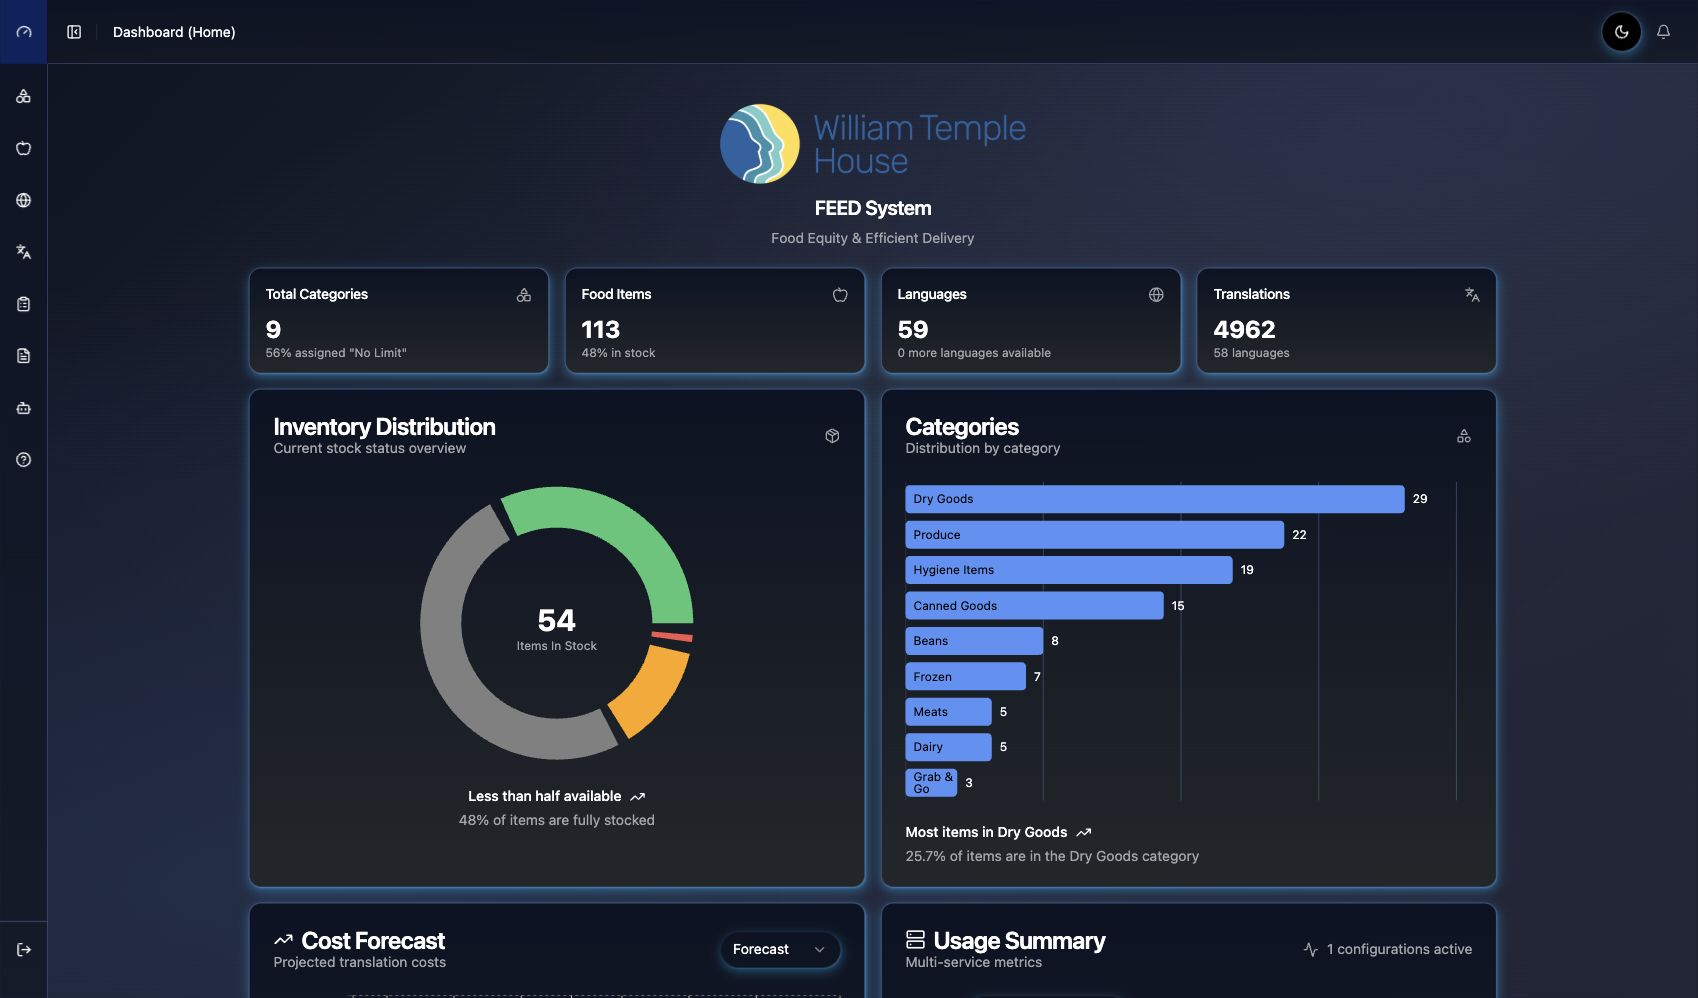
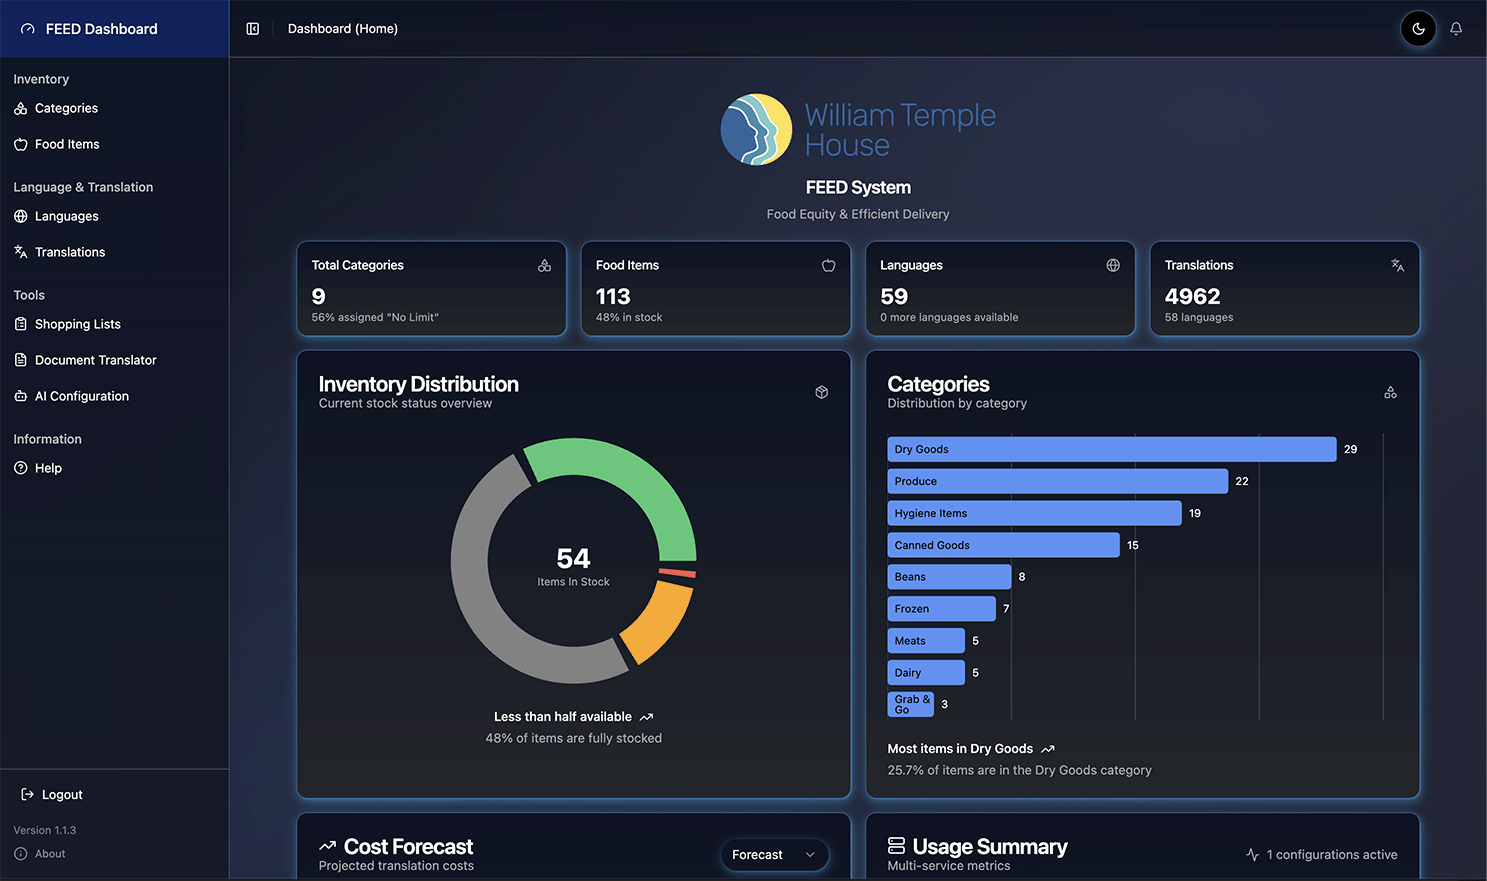
Revised: Help guides copy and images.

diff --git a/docs/user-guides/09-support-troubleshooting.md b/docs/user-guides/09-support-troubleshooting.md
@@ -10,11 +10,13 @@ Use Help search when you are not sure which guide has the answer.
 
 Check your email address first.
 
-If the code or magic link does not arrive:
+If the code does not arrive:
 
 1. Check spam or junk mail.
 2. Wait a minute and try again.
 3. Ask a staff lead or administrator for help.
+
+**NOTE:** Always sign in with One-Time Passcode. William Temple House's IT Administrators do not allow Magic Links. This is a known issue. 
 
 ## A Food Item Looks Wrong
 
@@ -38,7 +40,7 @@ If the language is not available, check the Languages page first.
 
 Try again once. Some failures are temporary.
 
-If it fails again, note the document name and language, then ask an administrator to review it.
+If it fails again, note the document name and language, then **[contact the developer](https://github.com/MattGeiger/williamtemple-feed#contact)** for help.
 
 ## A Shopping List PDF Looks Wrong
 
@@ -53,11 +55,29 @@ Look for:
 
 Export again after saving changes.
 
-## When To Ask For Help
+## Found a bug?
 
-Ask an administrator when:
+Send a message to the developer: **[https://github.com/MattGeiger/williamtemple-feed](https://github.com/MattGeiger/williamtemple-feed#contact)**
 
-- You cannot sign in.
-- Translation failures repeat.
-- AI Configuration needs a key or cost-limit change.
-- A list prints incorrectly after the template has been checked.
+Include details:
+
+- When did it happen?
+- What were you trying to do when it happened?
+- What's working and what's not working?
+- Have a screenshot?
+- Can the bug be reproduced? List the steps.
+
+Have ideas for making FEED better? Share your thoughts! The project is open source.
+
+        <div className="flex flex-col gap-2 sm:flex-row sm:justify-center">
+          <Button asChild variant="secondary">
+            <a
+              href="https://github.com/MattGeiger/williamtemple-feed"
+              target="_blank"
+              rel="noopener noreferrer"
+            >
+              <Github className="h-4 w-4" aria-hidden="true" />
+              Source Code on GitHub
+            </a>
+          </Button>
+        </div>

diff --git a/AGENTS.md b/AGENTS.md
@@ -155,7 +155,7 @@ The shopping list generator is being developed incrementally.
 - Phase 4: shopping list template generation completed and hardened. Users can apply saved templates and inventory-derived sections to the canvas, then generate PDFs from current data.
 - Phase 5: in progress. The Guided/Freeform layout-mode toggle, 9pt grid overlay (chosen because Letter paper, page center, and split-body lanes all land on grid lines under 9), 18pt section-table row rhythm, snap-to-grid for drag/drop/add/duplicate/insert, header/footer page-anatomy guides, explicit Header/Body/Footer component regions, split-body controls, Guided collision placement, table flow metadata, print presets, and planner-backed Body sequencing are landed. Flowing body section tables now split by whole rows across split lanes/pages and repeat headers; non-flowing Body components now receive single planned placements in the same sequence. Canvas preview and Chromium PDF export render the same plan. Remaining Phase 5 scope: overflow-control UX, alignment/distribution controls, additional split-page rules, multi-page editing affordances, and RITE-based UX refinement.
 
-Important product principle: the goal is not merely to dump inventory data into PDFs. The goal is to empower pantry staff to build reusable templates and control how inventory content is represented while keeping data-derived values accurate.
+Important product principle: the goal is not merely to dump inventory data into PDFs. The goal is to empower Social Services staff to build reusable templates and control how inventory content is represented while keeping data-derived values accurate.
 
 Inventory limits are food equity controls. They regulate per-client burn rates for high-demand items. Inventory-backed shopping list tables should derive limit values from the inventory database. If a user edits an inventory-backed limit in the builder, that edit should update the underlying Food Item or Category record rather than becoming disconnected template text.
 

diff --git a/docs/user-guides/01-getting-started.md b/docs/user-guides/01-getting-started.md
@@ -1,6 +1,6 @@
 # Getting Started
 
-FEED is the shared workspace for the William Temple House food pantry. It helps Social Services staff manage food inventory, translate client documents, and make printable shopping lists.
+FEED is a shared digital workspace for the William Temple House food pantry. It helps Social Services staff manage food inventory, translate client documents, and make printable multilingual shopping lists.
 
 ## Who Uses FEED?
 
@@ -14,17 +14,20 @@ Everyone who signs in sees the same shared information. If one person updates a 
 - Add or update food items and categories.
 - Translate documents for clients.
 - Manage supported languages.
-- Build and print shopping lists.
-- Review translation cost and activity.
+- Build and print shopping lists from templates.
+- Monitor translation cost and activity.
+- Configure AI models to enhance the quality of translations and classifications
 
 ## How To Sign In
 
-1. Open the FEED website.
-2. Enter your email address.
-3. Use the one-time code or magic link sent to your email.
+1. Open the FEED website https://feed.williamtemple.app.
+2. Enter your valid williamtemple.org email address.
+3. Use the one-time code sent to your email.
 4. After sign-in, FEED opens to the Dashboard.
 
-If the email does not arrive, check spam or junk mail first. Then ask a staff lead or administrator for help.
+**NOTE:** FEED supports Magic Link sign-in, but this feature *does not work* due to email security policies set by William Temple House's IT Admin.
+
+If the OTP email does not arrive, check spam or junk mail first. Then ask Social Services staff or your IT administrator for help.
 
 ## Where To Start
 
@@ -40,7 +43,7 @@ Use the left sidebar to move through FEED.
 
 ## Before You Make Changes
 
-FEED is shared by the whole organization. Changes are not private.
+FEED is shared by the whole organization. **Changes are not private.**
 
 Before deleting or changing something important, make sure it is not still needed by another staff member.
 

diff --git a/docs/user-guides/05-document-translator.md b/docs/user-guides/05-document-translator.md
@@ -1,16 +1,16 @@
 # Document Translator
 
-Document Translator helps staff turn English DOCX files into client-ready translated documents.
+Document Translator helps staff turn Microsoft Word (DOCX) files from original English into client-ready multilingual translated documents.
 
 ## What It Is For
 
 Use Document Translator for forms, notices, flyers, and other Word documents that clients need in another language.
 
-It is designed for DOCX files. PDF translation is not the main workflow here.
+**NOTE:** Document Translator is designed for Microsoft Word DOCX files. PDF translation is not supported.
 
 ## Before You Upload
 
-Check that the English document is final enough to translate.
+Check that the source English document is final enough to translate.
 
 Small edits after translation may require new translations, so it is best to review the source document first.
 
@@ -24,6 +24,9 @@ The Upload Document dialog is where you choose the DOCX file.
 2. Select Upload Document.
 3. Choose a DOCX file.
 4. Open the translate action for that document.
+
+![Translate Document dialog Basic](/help-screenshots/document-translator-dialog.png)
+
 5. Select the languages needed.
 6. Start translation.
 7. Download the finished files when they are ready.
@@ -42,7 +45,7 @@ If you are not sure, use the basic workflow first.
 
 1. Wait a moment and try again.
 2. Check whether other languages worked.
-3. If only one language keeps failing, ask an administrator to review the issue.
+3. If only one language keeps failing, **[ask the developer](https://github.com/MattGeiger/williamtemple-feed#contact)** to review the issue.
 
 Some failures are temporary provider problems. Your original document is not lost.
 

diff --git a/docs/user-guides/04-languages-translations.md b/docs/user-guides/04-languages-translations.md
@@ -6,7 +6,9 @@ Languages and Translations help FEED create client materials in the languages yo
 
 The Languages page controls which languages are available for translation.
 
-Enable only the languages your team needs. More languages can mean more translation work and higher AI cost.
+Enable only the languages your team needs.
+
+**IMPORTANT NOTE:** More languages can mean slower translation speeds and higher AI cost.
 
 ## What Translations Does
 
@@ -36,17 +38,16 @@ The Find Missing Translations dialog scans FEED for translation gaps.
 
 1. Open Translations.
 2. Select Find Missing Translations.
-3. Choose the content and languages to check.
-4. Review what FEED finds.
-5. Start the missing translation work if needed.
+3. Review what the utility finds.
+4. Start the missing translation work if needed.
 
 ## When To Retry A Translation
 
 Retry a translation when it failed or appears stuck.
 
-If the same language fails more than once, check AI Configuration or ask an administrator for help.
+If the same language fails more than once, check AI Configuration or **[contact the developer](https://github.com/MattGeiger/williamtemple-feed#contact)** for help.
 
-## Plain-English Tip
+## Tip: Improving Translations
 
 Translations are shared. If you improve a translation, everyone benefits from that correction.
 

diff --git a/docs/shopping-lists/shopping-lists-overview.md b/docs/shopping-lists/shopping-lists-overview.md
@@ -2,7 +2,7 @@
 
 ## Business Purpose
 
-The Shopping Lists feature enables William Temple House food pantry staff to generate standardized, multilingual shopping lists for clients based on current inventory data. This system replaces manual list creation with automated, consistent, and culturally accessible documentation.
+The Shopping Lists feature enables William Temple House food Social Services staff to generate standardized, multilingual shopping lists for clients based on current inventory data. This system replaces manual list creation with automated, consistent, and culturally accessible documentation.
 
 ## Core Value Propositions
 
@@ -33,7 +33,7 @@ The Shopping Lists feature enables William Temple House food pantry staff to gen
 ## User Workflows
 
 ### Primary Users
-- **Food Pantry Staff**: Create templates, generate lists, print documents
+- **Food Social Services Staff**: Create templates, generate lists, print documents
 - **Volunteers**: Generate lists for client appointments
 - **Administrative Staff**: Manage templates and system configuration
 

diff --git a/docs/user-guides/08-ai-configuration.md b/docs/user-guides/08-ai-configuration.md
@@ -28,7 +28,6 @@ Change AI Configuration when:
 - A provider key changes.
 - Translation quality needs adjustment.
 - Cost limits need review.
-- An administrator asks you to update a setting.
 
 ## API Key Warnings
 
@@ -41,6 +40,10 @@ A warning does not always block saving. It is a reminder to double-check before 
 Cost limits help prevent surprise spending.
 
 If translations stop unexpectedly, ask whether a cost or usage limit has been reached.
+
+## Active and Inactive AI Model Settings
+
+If more than one AI model is set to *Active*, only the model most recently set will be used for translation. At least one AI model must be set to *Active* for translation and classification features to work.
 
 ## What To Read Next
 

diff --git a/README.md b/README.md
@@ -32,7 +32,7 @@ software. FEED supports the common operational reality of food pantries:
   per-category limits, in-stock / out-of-stock / clearance status.
 - **Shopping list builder** — an interactive canvas-based template
   editor that produces printable, multi-page, multi-language shopping
-  lists. Pantry staff design templates once; the system generates
+  lists. Social Services staff design templates once; the system generates
   current-inventory-aware PDFs on demand.
 - **AI-powered document translation** — staff can upload English forms
   and announcements (DOCX) and get back native-quality translations in

diff --git a/docs/user-guides/README.md b/docs/user-guides/README.md
@@ -4,7 +4,7 @@ These Markdown files are the source for FEED's in-app Help section.
 
 ## Audience
 
-Write for pantry staff, volunteers, and administrators who need to do real
+Write for Social Services staff, volunteers, and administrators who need to do real
 work quickly. Assume readers are comfortable helping people, not reading
 technical manuals.
 

diff --git a/docs/user-guides/03-inventory.md b/docs/user-guides/03-inventory.md
@@ -4,7 +4,7 @@ Inventory is where FEED tracks pantry food categories, food items, limits, and s
 
 ## Who Uses Inventory?
 
-Inventory is mainly for pantry staff who keep food lists accurate for clients and volunteers.
+Inventory is mainly for Social Services staff who keep food lists accurate for clients and volunteers.
 
 ## Why Limits Matter
 

diff --git a/docs/user-guides/06-shopping-lists.md b/docs/user-guides/06-shopping-lists.md
@@ -1,6 +1,6 @@
 # Shopping Lists
 
-Shopping Lists lets staff find saved templates and export current, printable lists for pantry clients.
+Shopping Lists lets Social Services staff access saved templates and export current, printable shopping lists for food pantry clients.
 
 ## What Shopping Lists Are
 
